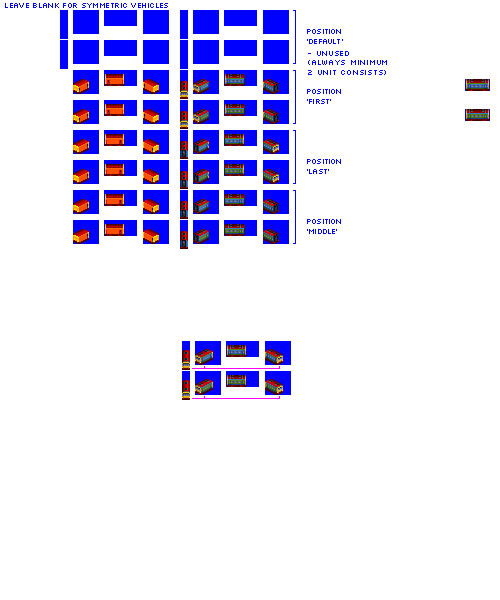
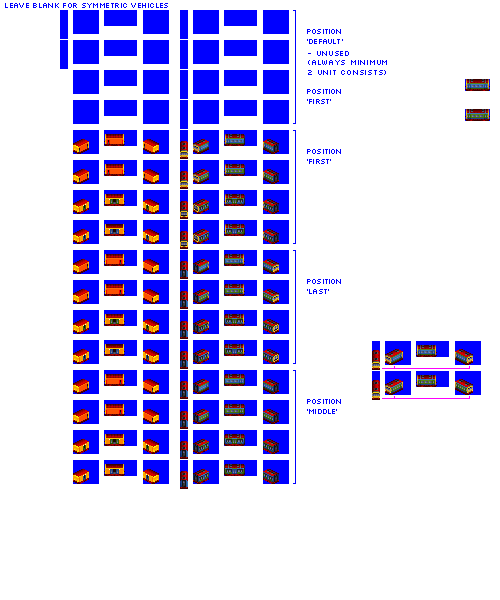
Change: remove Zipper as redundant; consolidate liveries to Skipper

diff --git a/src/vehicles/pony/skipper.py b/src/vehicles/pony/skipper.py
@@ -17,7 +17,7 @@ def main(**kwargs):
         gen=5,
         # introduce early by design
         intro_year_offset=-4,
-        livery_group_name="gen_5_railbus_pax_liveries",  # override default liveries from gestalt
+        livery_group_name="gen_5_and_6_railbus_pax_liveries",  # override default liveries from gestalt
         pax_car_capacity_type="railbus_combine",  # specific to combined mail + pax model type
         sprites_complete=True,
     )
@@ -37,7 +37,7 @@ def main(**kwargs):
     )
 
     model_def.define_description("""Patience is the virtue of the donkeys.""")
-    model_def.define_foamer_facts("""BR Class 141/142/143/144 <i>Pacers</i>""")
+    model_def.define_foamer_facts("""BR Class 141/142/143/144 <i>Pacers</i>, Vivarail D-Train""")
 
     result.append(model_def)
 
@@ -54,7 +54,7 @@ def main(**kwargs):
         gen=5,
         # introduce early by design
         intro_year_offset=-4,
-        livery_group_name="gen_5_railbus_pax_liveries",  # override default liveries from gestalt
+        livery_group_name="gen_5_and_6_railbus_pax_liveries",  # override default liveries from gestalt
         # match to equivalent twin-unit railbus id
         vehicle_family_id="skipper",
         # it's too complex to clone these from the twin unit, but treat the result like a clone

diff --git a/src/rosters/pony.py b/src/rosters/pony.py
@@ -133,7 +133,6 @@ engine_module_names = [
     # railbuses
     "clipper",
     "skipper",
-    "zipper",
     # diesel railcars
     "deasil",
     "slammer",
@@ -1048,9 +1047,11 @@ def main():
                 ("INVERSIONS", 0),
                 ("RAIN_OR_SHINE", 1),
             ],
-            "gen_5_railbus_pax_liveries": [
+            "gen_5_and_6_railbus_pax_liveries": [
                 ("SHOW_PONY", 0),
                 ("INVERSIONS", 1),
+                ("VAPID_VOYAGER", 2),
+                ("VINYL_VECTOR", 3),
             ],
             "gen_6_railbus_pax_liveries": [
                 ("VAPID_VOYAGER", 0),
